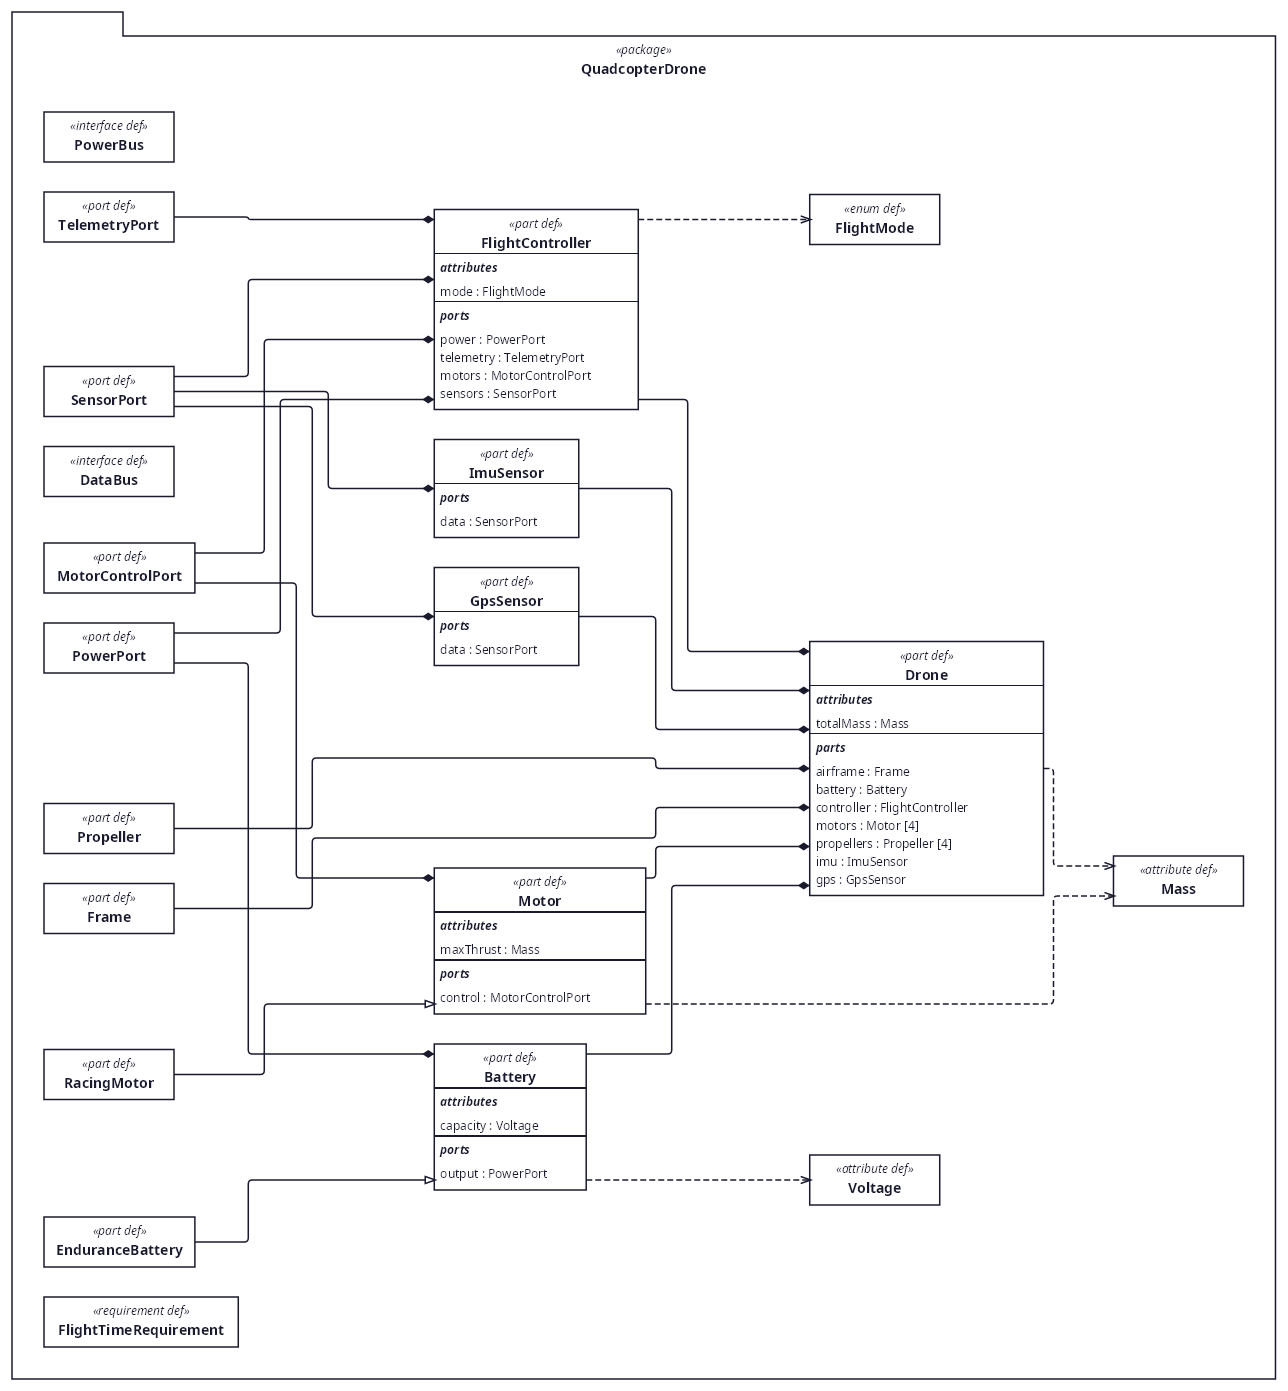
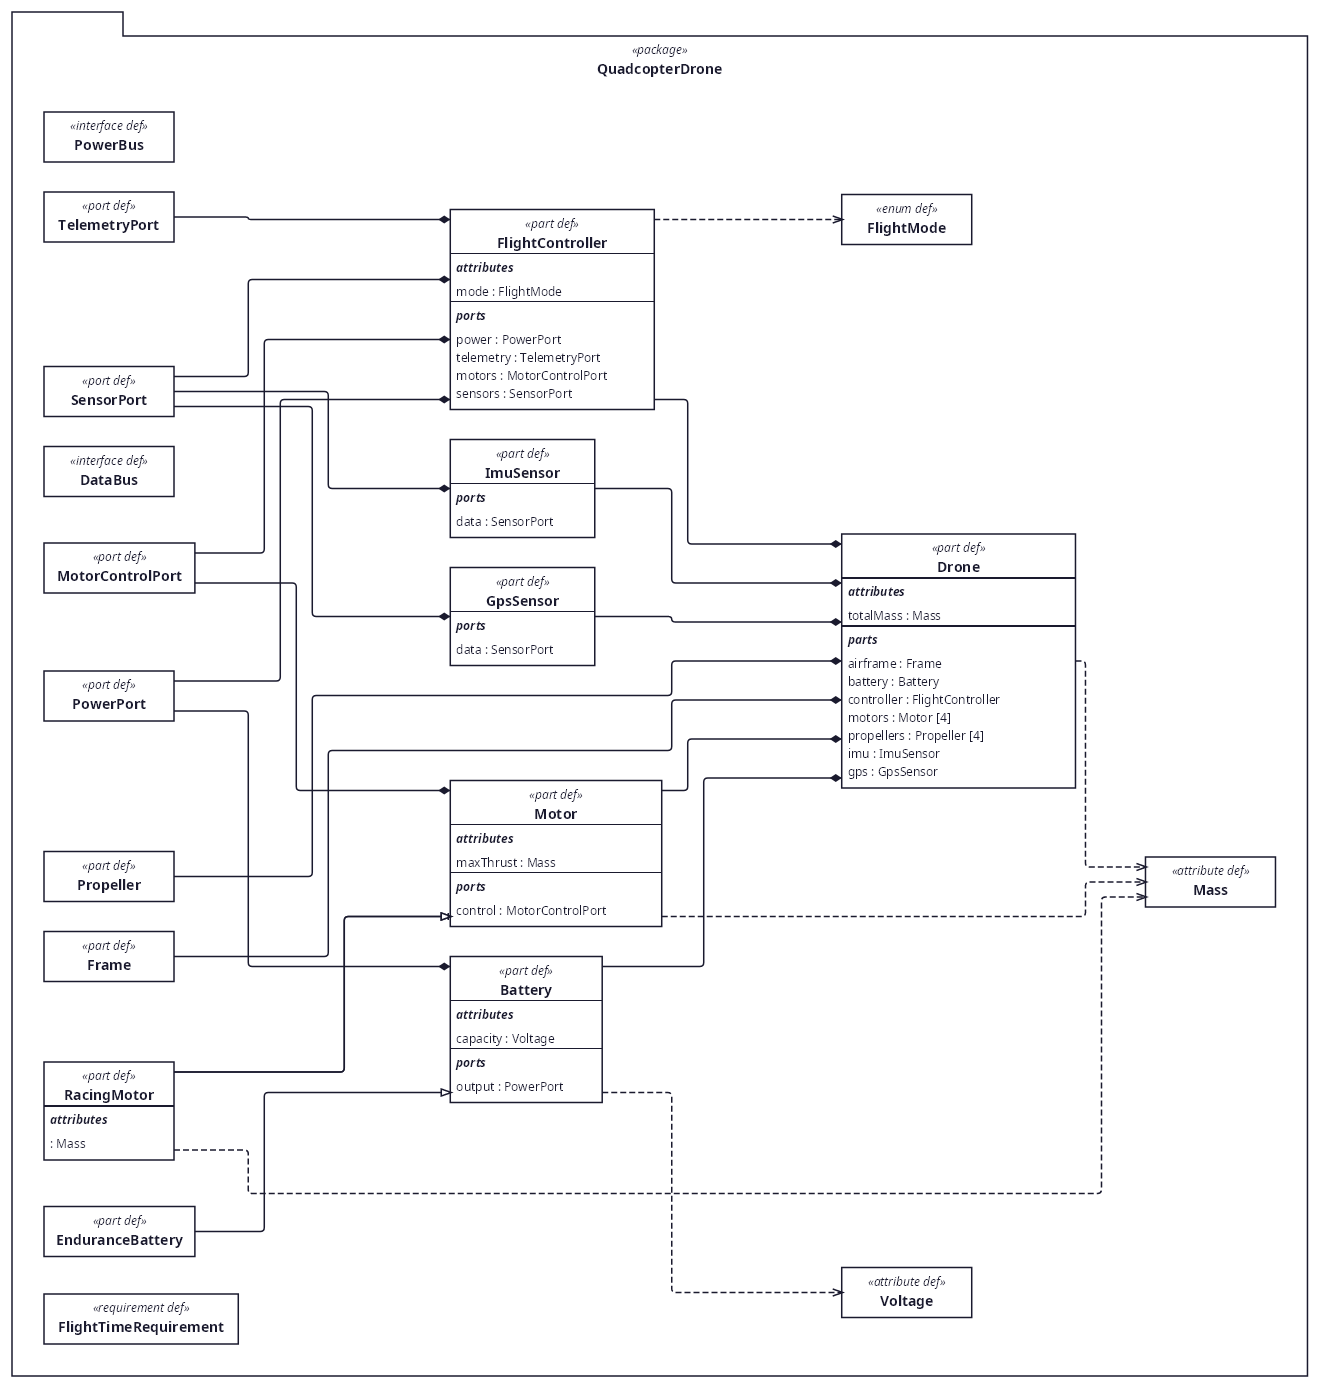
Add redefinition example to gallery Drone General View
RacingMotor now redefines Motor's maxThrust attribute (attribute :>>
maxThrust : Mass;), demonstrating the hollow-triangle-crossbar marker
in the rendered SVG/PNG. Updated gallery README to describe the example.

diff --git a/docs/gallery/README.md b/docs/gallery/README.md
@@ -29,6 +29,10 @@ requirement) grouped in a package folder, with typed compartments (attributes,
 ports, parts) and specialization edges. Definitions are placed by a layered
 (ELK-style) engine with orthogonal edge routing.
 
+`RacingMotor` also redefines `Motor`'s inherited `maxThrust` attribute
+(`attribute :>> maxThrust : Mass;`), demonstrating the hollow-triangle-crossbar
+marker used for `redefines`/`:>>` relationships.
+
 Model: [`models/01-drone-general.sysml`](models/01-drone-general.sysml) ·
 SVG: [`svg/DroneGeneralView.svg`](svg/DroneGeneralView.svg)
 
